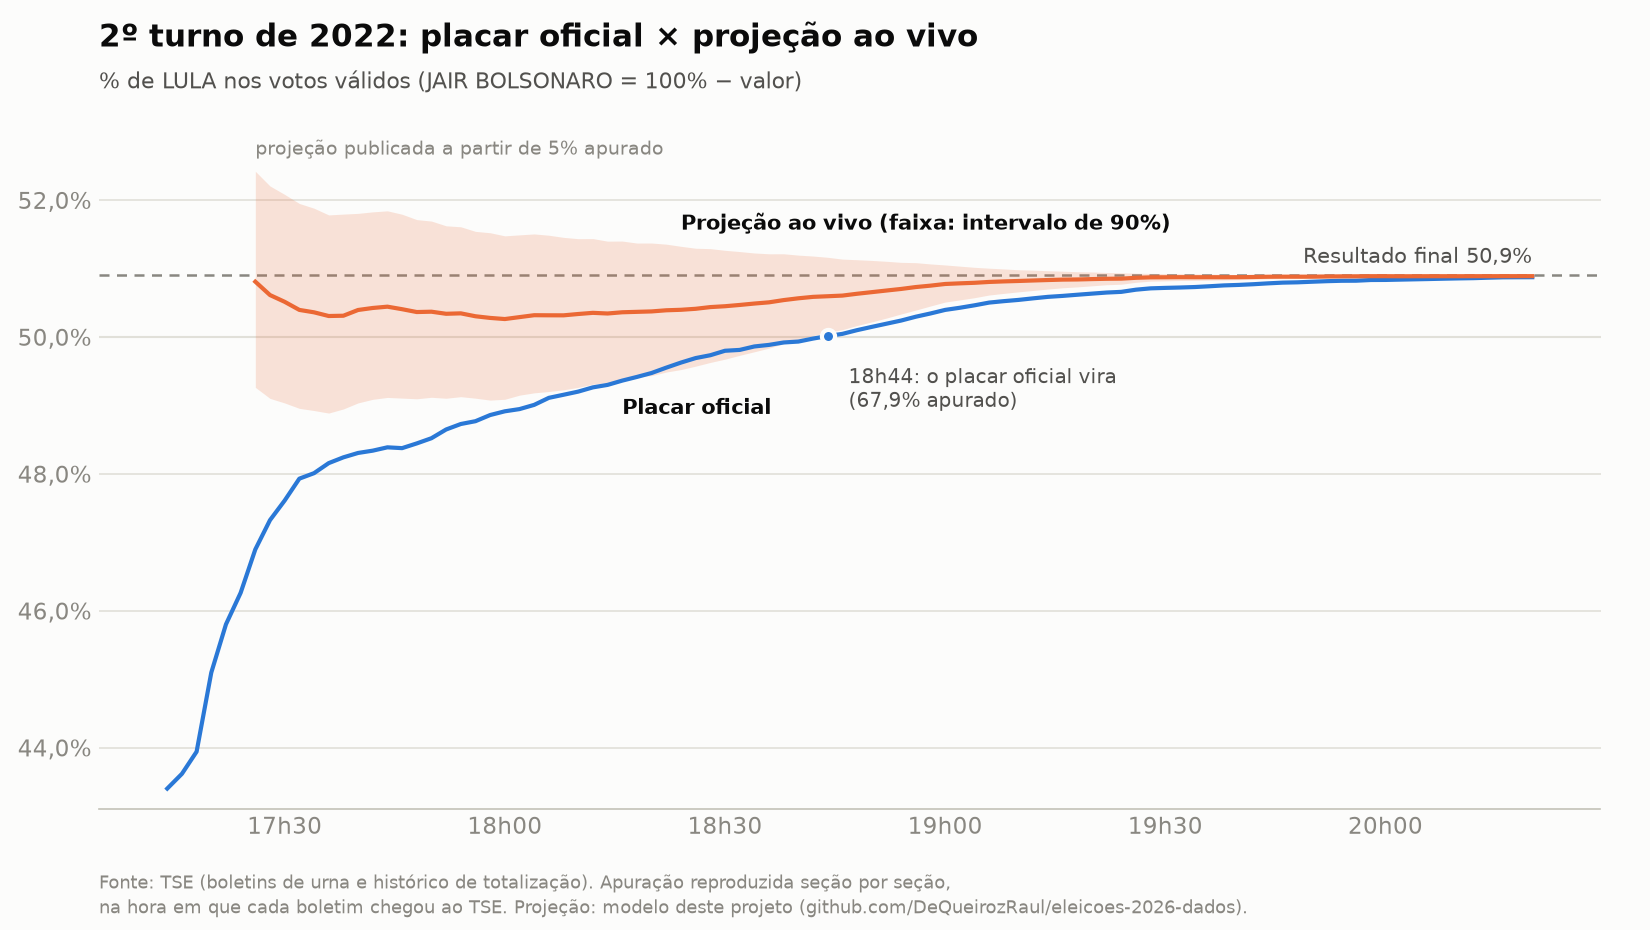
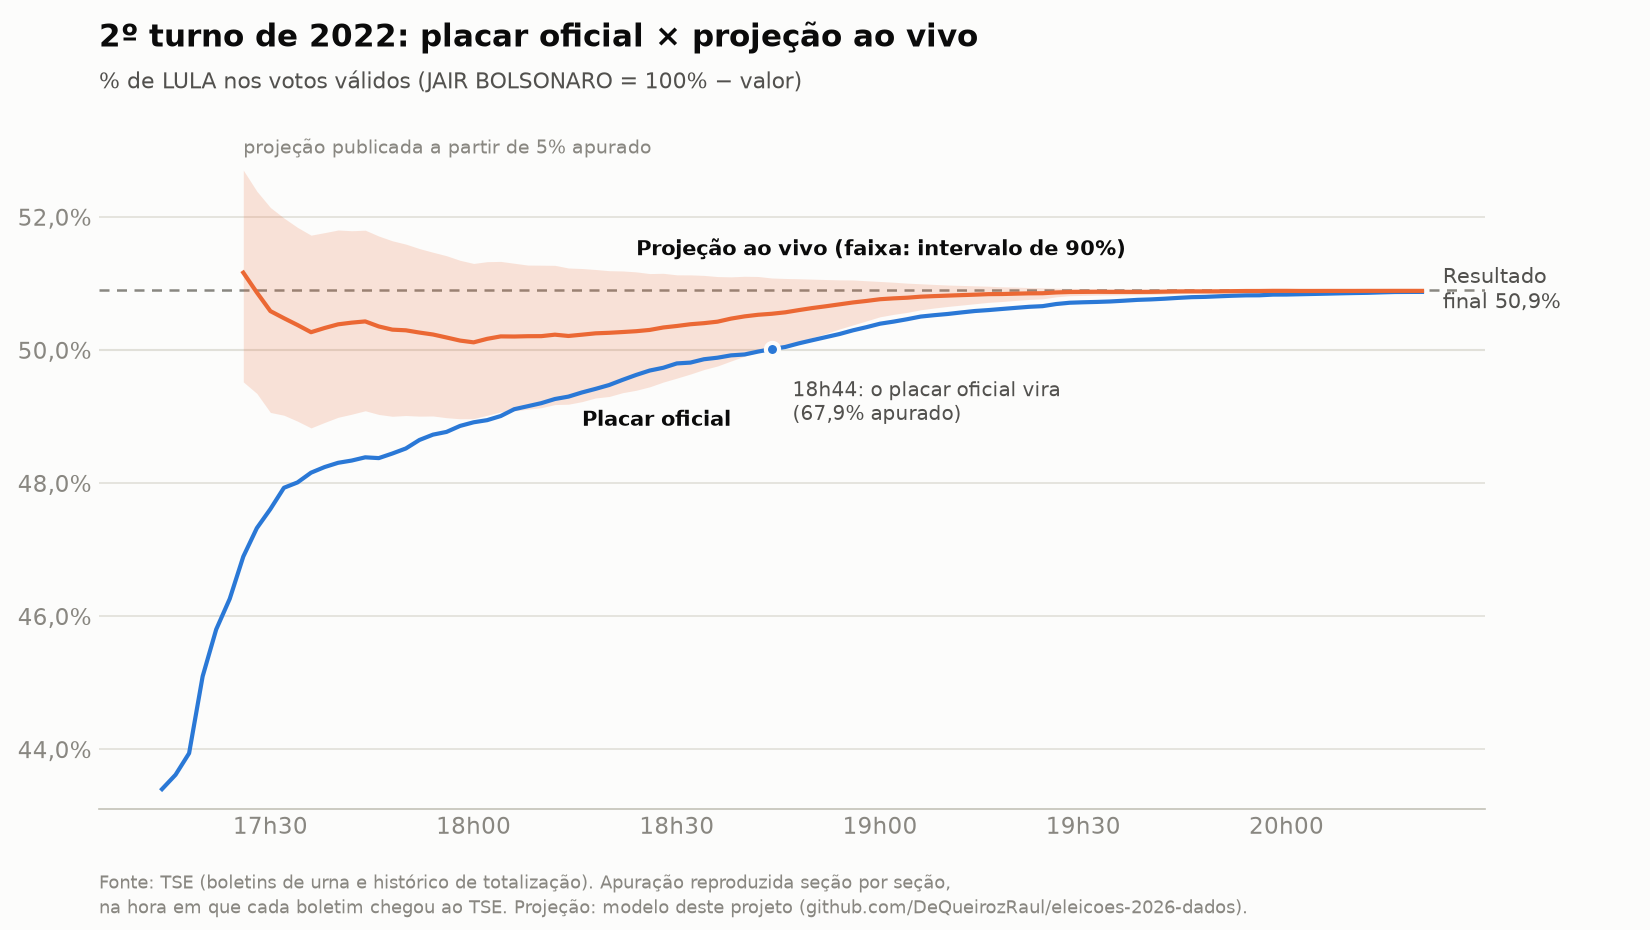
Previsão ao vivo validada nas duas apurações de 2022
- Teste independente no 1º turno de 2022 (placar LULA × JAIR BOLSONARO,
  previsão de antes = mapa do 2º turno de 2018). A primeira versão falhou:
  viés de 2 pontos por horas, porque em relação a 2018 LULA foi muito melhor
  nas cidades grandes, que apuram por último.
- O modelo ao vivo agora aprende durante a noite uma inclinação do erro por
  log(eleitores) do município (faixa larga a priori). Com isso o intervalo de
  90% conteve o final em 100% dos momentos no 1º turno e em 93% no 2º, e a
  projeção ficou do lado do vencedor desde 5% apurado nas duas noites.
- Download dos boletins em partes paralelas (com volta para o download
  simples se o servidor recusar).
- Gráficos das duas noites e metodologia atualizada, com a ressalva de que os
  testes de 2022 já ajudaram a desenhar o modelo; o teste independente será
  a noite de 25/10/2026.

Claude-Session: https://claude.ai/code/session_01YZ8Mxwq97kEgGU7PHEBHqv

diff --git a/eleicoes/ao_vivo.py b/eleicoes/ao_vivo.py
@@ -5,9 +5,10 @@ A cada atualização, o modelo:
 
 1. compara, em cada município com votos já apurados, o resultado parcial com a
    previsão feita antes da eleição (o "resíduo", na escala logit);
-2. estima o quanto a previsão está errando no país e em cada UF (modelo
-   normal hierárquico: resíduo = erro nacional + erro da UF + erro do município),
-   o que permite corrigir também os municípios que ainda não apuraram nada;
+2. estima o quanto a previsão está errando no país, em cada UF e conforme o
+   tamanho do município (modelo normal hierárquico: resíduo = erro nacional +
+   inclinação × log(eleitores) + erro da UF + erro do município), o que permite
+   corrigir também os municípios que ainda não apuraram nada;
 3. projeta os votos que faltam em cada município e soma ao que já foi apurado,
    admitindo que o que falta pode ser sistematicamente diferente do que chegou;
 4. repete com milhares de sorteios dos erros para obter intervalo e probabilidade.
@@ -40,6 +41,10 @@ class Parametros:
     sigma_mun: float = 0.138      # variação do erro entre municípios
     c_tamanho: float = 11.3       # ruído extra de municípios pequenos (÷ votos válidos)
     sigma_parcial: float = 0.20   # o que já foi apurado num município difere do que falta
+    # O erro pode depender do tamanho do município (cidades grandes apuram por
+    # último e às vezes votam diferente do previsto). Faixa larga a priori: o
+    # modelo aprende a inclinação durante a apuração.
+    sigma_tamanho: float = 0.20   # por unidade de log(eleitores)
     # O que ainda falta apurar pode diferir de forma sistemática do que já chegou
     # (regiões e seções que apuram mais tarde votam diferente). Esse erro não
     # diminui com mais dados apurados, só com menos votos faltando.
@@ -61,25 +66,17 @@ class Projecao:
         return self.pct_secoes >= MINIMO_APURADO
 
 
-def _posterior_erros(r, w_var, uf_idx, n_uf, p: Parametros):
-    """Média e covariância a posteriori de (erro nacional, erros das UFs)
-    no modelo r_i = mu + u_uf + e_i, e_i ~ N(0, w_var_i)."""
-    k = 1 + n_uf
-    precisao = np.zeros((k, k))
-    precisao[0, 0] = 1 / p.tau_nacional ** 2
-    precisao[np.arange(1, k), np.arange(1, k)] = 1 / p.sigma_uf ** 2
-    vetor = np.zeros(k)
+def _posterior_erros(r, w_var, X, precisao_prior):
+    """Média e covariância a posteriori dos efeitos no modelo r = X·efeitos + e,
+    e ~ N(0, w_var), com prior normal de média zero e precisão `precisao_prior`."""
+    precisao = np.diag(precisao_prior).astype(float)
+    vetor = np.zeros(len(precisao_prior))
     if len(r):
         inv = 1 / w_var
-        precisao[0, 0] += inv.sum()
-        por_uf = np.bincount(uf_idx, weights=inv, minlength=n_uf)
-        precisao[0, 1:] += por_uf
-        precisao[1:, 0] += por_uf
-        precisao[np.arange(1, k), np.arange(1, k)] += por_uf
-        vetor[0] = (inv * r).sum()
-        vetor[1:] = np.bincount(uf_idx, weights=inv * r, minlength=n_uf)
+        precisao += X.T @ (X * inv[:, None])
+        vetor = X.T @ (inv * r)
     cov = np.linalg.inv(precisao)
-    return cov @ vetor, cov
+    return cov @ vetor, (cov + cov.T) / 2
 
 
 def projetar(estado: pd.DataFrame, p: Parametros = Parametros(), cenarios: int = 2000,
@@ -96,14 +93,21 @@ def projetar(estado: pd.DataFrame, p: Parametros = Parametros(), cenarios: int =
     prior = estado["logit_prior"].to_numpy(float)
     fracao = np.divide(aptos_ap, aptos, out=np.ones_like(aptos), where=aptos > 0)
 
+    # efeitos: [erro nacional, inclinação por tamanho, erro de cada UF]
+    tamanho = np.log(np.maximum(aptos, 1))
+    tamanho = tamanho - np.average(tamanho, weights=np.maximum(aptos, 1))
+    X = np.column_stack([np.ones(len(estado)), tamanho, np.eye(n_uf)[uf_idx]])
+    precisao_prior = np.concatenate([[1 / p.tau_nacional ** 2, 1 / p.sigma_tamanho ** 2],
+                                     np.full(n_uf, 1 / p.sigma_uf ** 2)])
+
     # 1. resíduos dos municípios com votos apurados
     tem = validos > 0
     r = logit((a[tem] + 0.5) / (validos[tem] + 1)) - prior[tem]
     var_mun = p.sigma_mun ** 2 + p.c_tamanho / np.maximum(validos[tem], 1)
     var_obs = var_mun + p.sigma_parcial ** 2 * (1 - fracao[tem])
 
-    # 2. erro nacional e por UF
-    media, cov = _posterior_erros(r, var_obs, uf_idx[tem], n_uf, p)
+    # 2. erro nacional, por tamanho e por UF
+    media, cov = _posterior_erros(r, var_obs, X[tem], precisao_prior)
 
     # 3. votos que faltam em cada município
     taxa_obs = np.divide(validos, aptos_ap, out=np.zeros_like(validos), where=aptos_ap > 0)
@@ -111,8 +115,8 @@ def projetar(estado: pd.DataFrame, p: Parametros = Parametros(), cenarios: int =
     restante = (aptos - aptos_ap) * taxa
 
     # 4. sorteios
-    erros = rng.multivariate_normal(media, cov, size=cenarios)          # cenários x (1 + UFs)
-    base = prior[None, :] + erros[:, [0]] + erros[:, 1:][:, uf_idx]
+    erros = rng.multivariate_normal(media, cov, size=cenarios)          # cenários x efeitos
+    base = prior[None, :] + erros @ X.T
     # erro próprio do município: o que já apurou informa sobre o que falta
     var_e = p.sigma_mun ** 2 + p.c_tamanho / np.maximum(aptos * taxa, 1)
     rho = np.zeros(len(estado))

diff --git a/scripts/baixar_boletins_2022.py b/scripts/baixar_boletins_2022.py
@@ -14,8 +14,10 @@ from __future__ import annotations
 import argparse
 import shutil
 import sys
+import time
 import tempfile
 import zipfile
+from concurrent.futures import ThreadPoolExecutor
 from pathlib import Path
 
 import duckdb
@@ -39,13 +41,41 @@ def urls(turno: int) -> dict[str, str]:
     return saida
 
 
-def baixar_uf(url: str, destino: Path, sessao: requests.Session) -> None:
+def baixar_em_partes(url: str, destino: Path, partes: int = 3, bloco: int = 32 * 1024 * 1024) -> None:
+    """Baixa o arquivo em pedaços paralelos (HTTP Range), mais rápido para os zips
+    grandes. Se o servidor recusar os pedidos paralelos, baixa de uma vez só."""
+    tamanho = int(requests.head(url, timeout=60).headers["Content-Length"])
+    with open(destino, "wb") as f:
+        f.truncate(tamanho)
+
+    def pedaco(inicio: int) -> None:
+        fim = min(inicio + bloco, tamanho) - 1
+        for tentativa in range(4):
+            try:
+                r = requests.get(url, headers={"Range": f"bytes={inicio}-{fim}"}, timeout=300)
+                r.raise_for_status()
+                with open(destino, "r+b") as f:
+                    f.seek(inicio)
+                    f.write(r.content)
+                return
+            except requests.RequestException:
+                if tentativa == 3:
+                    raise
+                time.sleep(2 ** (tentativa + 1))
+
+    try:
+        with ThreadPoolExecutor(max_workers=partes) as executor:
+            list(executor.map(pedaco, range(0, tamanho, bloco)))
+    except requests.RequestException:
+        with requests.get(url, stream=True, timeout=600) as resposta, open(destino, "wb") as f:
+            resposta.raise_for_status()
+            shutil.copyfileobj(resposta.raw, f, length=4 * 1024 * 1024)
+
+
+def baixar_uf(url: str, destino: Path) -> None:
     with tempfile.TemporaryDirectory() as tmp:
         zip_tmp = Path(tmp) / "bu.zip"
-        with sessao.get(url, stream=True, timeout=600) as resposta:
-            resposta.raise_for_status()
-            with open(zip_tmp, "wb") as f:
-                shutil.copyfileobj(resposta.raw, f, length=4 * 1024 * 1024)
+        baixar_em_partes(url, zip_tmp)
         with zipfile.ZipFile(zip_tmp) as zf:
             membro = next(n for n in zf.namelist() if n.lower().endswith(".csv"))
             csv_tmp = Path(zf.extract(membro, tmp))
@@ -67,12 +97,11 @@ def main() -> None:
 
     pasta = RAIZ / "dados" / "brutos" / f"bweb_2022_{args.turno}t"
     pasta.mkdir(parents=True, exist_ok=True)
-    sessao = requests.Session()
     for uf, url in sorted(urls(args.turno).items()):
         destino = pasta / f"{uf}.parquet"
         if destino.exists():
             continue
-        baixar_uf(url, destino, sessao)
+        baixar_uf(url, destino)
         print(f"{uf}: {destino.stat().st_size / 1e6:.1f} MB", flush=True)
 
 

diff --git a/scripts/grafico_apuracao_2022.py b/scripts/grafico_apuracao_2022.py
@@ -63,8 +63,8 @@ def grafico(turno: int) -> Path | None:
 
     # rótulos diretos
     fim = r.iloc[-1]
-    ax.annotate("Resultado final " + pct(final), (r["momento"].iloc[-1], final), xytext=(-110, 6),
-                textcoords="offset points", color=TINTA_2, fontsize=10)
+    ax.annotate("Resultado\nfinal " + pct(final), (r["momento"].iloc[-1], final), xytext=(10, 0),
+                textcoords="offset points", color=TINTA_2, fontsize=10, va="center", annotation_clip=False)
     meio = r.iloc[len(r) // 3]
     meio_proj = proj.iloc[len(proj) // 3]
     ax.annotate("Placar oficial", (meio["momento"], meio["pct_a_apurado"]), xytext=(0, -16),
@@ -74,7 +74,8 @@ def grafico(turno: int) -> Path | None:
 
     # quando a liderança muda no placar e na projeção
     lado_final = final > 0.5
-    virada_placar = r[(r["pct_a_apurado"] > 0.5) == lado_final]
+    do_lado_final = ((r["pct_a_apurado"] > 0.5) == lado_final)[::-1].cummin()[::-1]  # daí em diante não muda mais
+    virada_placar = r[do_lado_final]
     if len(virada_placar) and len(virada_placar) < len(r):
         v = virada_placar.iloc[0]
         ax.scatter([v["momento"]], [v["pct_a_apurado"]], s=40, color=PLACAR, edgecolor=SUPERFICIE, lw=2, zorder=6)
@@ -100,7 +101,7 @@ def grafico(turno: int) -> Path | None:
     fig.text(0.06, 0.018, "Fonte: TSE (boletins de urna e histórico de totalização). Apuração reproduzida seção por seção,\n"
              "na hora em que cada boletim chegou ao TSE. Projeção: modelo deste projeto (github.com/DeQueirozRaul/eleicoes-2026-dados).",
              fontsize=8.5, color=MUDO, linespacing=1.4)
-    fig.subplots_adjust(left=0.06, right=0.97, top=0.86, bottom=0.13)
+    fig.subplots_adjust(left=0.06, right=0.9, top=0.86, bottom=0.13)
 
     destino = RAIZ / "docs" / "img" / f"apuracao_2022_{turno}t.png"
     destino.parent.mkdir(parents=True, exist_ok=True)

diff --git a/scripts/reproduzir_apuracao_2022.py b/scripts/reproduzir_apuracao_2022.py
@@ -1,5 +1,6 @@
-"""Reproduz a apuração do 2º turno de 2022 seção por seção e confere com o
-histórico oficial de totalização do TSE.
+"""Monta a tabela secoes_2022 (os dois turnos que já tiverem sido baixados) e
+confere a apuração do 2º turno reproduzida seção por seção com o histórico
+oficial de totalização do TSE.
 
 Cada seção entra na contagem no momento em que o boletim de urna chegou ao TSE
 (DT_BU_RECEBIDO). Se a curva reproduzida bater com o histórico oficial, essa

diff --git a/docs/previsao.md b/docs/previsao.md
@@ -264,18 +264,93 @@ ainda falta chegar:
    porcentagem final projetada com intervalo e a probabilidade de cada
    finalista, atualizadas a cada minuto.
 
-### Teste reproduzindo a apuração de 2022
+### Teste reproduzindo as apurações de 2022
+
+Código: [`eleicoes/ao_vivo.py`](../eleicoes/ao_vivo.py) e
+[`scripts/testar_ao_vivo_2022.py`](../scripts/testar_ao_vivo_2022.py).
 
 Os boletins de urna de 2022 trazem, para cada seção, os votos e a hora em que
-o boletim chegou ao TSE (`DT_BU_RECEBIDO`). Com isso dá para reproduzir a
-noite do 2º turno de 2022 minuto a minuto:
+o boletim chegou ao TSE (`DT_BU_RECEBIDO`). Reproduzindo a apuração nessa
+ordem, a curva bate com o histórico oficial de totalização do 2º turno:
+diferença média de 0,4 ponto no % de seções apuradas e de 0,07 ponto no % de
+LULA. Então dá para rodar a previsão ao vivo "como se fosse aquela noite", a
+cada 2 minutos, nos dois turnos.
 
-- conferir que a curva reproduzida bate com o histórico oficial de totalização;
-- rodar o modelo ao vivo como se fosse aquela noite;
-- medir com quantos % das seções apuradas a projeção ficou a menos de 0,5 ponto
-  do resultado final, e se o intervalo de incerteza conteve o resultado real.
+**2º turno de 2022.** A previsão de antes da eleição vem do modelo da Parte 1
+treinado só com 2002 a 2018, sem saber nada de 2022 além do 1º turno.
 
-Só publicamos a previsão ao vivo de 2026 se ela passar nesse teste.
+![Placar oficial e projeção ao vivo na noite do 2º turno de 2022](img/apuracao_2022_2t.png)
+
+**1º turno de 2022.** Aqui o alvo é o placar entre LULA e JAIR BOLSONARO. A
+previsão de antes é só o mapa do 2º turno de 2018 (lado do PT × outro lado),
+com incerteza nacional grande, porque esse mapa não diz nada sobre o nível de
+2022. É um teste mais difícil: o modelo tem de aprender quase tudo durante a
+noite.
+
+![Placar oficial e projeção ao vivo na noite do 1º turno de 2022](img/apuracao_2022_1t.png)
+
+Erro em relação ao resultado final (pontos percentuais):
+
+| Apurado | 2º turno: placar oficial | 2º turno: projeção | 1º turno: placar oficial | 1º turno: projeção |
+|---|---|---|---|---|
+| 5% | −4,6 | +0,5 | −6,5 | −0,8 |
+| 10% | −2,9 | −0,5 | −5,8 | −0,7 |
+| 25% | −2,1 | −0,7 | −5,2 | −0,8 |
+| 50% | −1,2 | −0,6 | −3,8 | −0,4 |
+| 75% | −0,7 | −0,2 | −2,3 | −0,1 |
+
+- **Lado certo desde o início:** depois de 5% apurado, a projeção mostrou LULA à
+  frente o tempo todo nos dois turnos. O placar oficial só virou às 18h44 no
+  2º turno (68% apurado) e às 20h00 no 1º (67%).
+- **Intervalo honesto:** o resultado final ficou dentro do intervalo de 90% em
+  93% dos momentos no 2º turno e em 100% no 1º. A largura média do intervalo
+  foi de ~3 pontos com 5–10% apurado, ~2 pontos com 25–50% e ~1,2 ponto com
+  50–75%.
+- **Chance acima de 90%:** de forma estável, a partir de 18h40 no 2º turno (64%
+  apurado), uma disputa decidida por 1,8 ponto, e desde a primeira publicação
+  (5,5% apurado) no 1º turno, decidido por 5,7 pontos.
+- **Sobra um viés pequeno:** a projeção ficou de 0,5 a 0,8 ponto abaixo do final
+  durante boa parte das duas noites. As seções que chegam primeiro votaram um
+  pouco mais em JAIR BOLSONARO do que as últimas, mesmo descontados UF e
+  tamanho. O intervalo cobre isso.
+
+### O que mudou no modelo por causa desses testes
+
+1. **O que falta apurar pode ser diferente do que já chegou.** A primeira
+   versão supunha que não, e no 2º turno o intervalo continha o final em só 8%
+   dos momentos. Entrou um desvio comum aos votos que faltam (0,04 no país e
+   0,05 por UF, na escala logit), com tamanho escolhido pela diferença entre a
+   primeira e a segunda metade das seções nas capitais.
+2. **Só publicar a partir de 5% apurado.** Antes disso os primeiros boletins vêm
+   de poucas regiões e a projeção oscila (chegou a 54% com 1% apurado no 2º
+   turno).
+3. **O erro pode depender do tamanho do município.** Com os ajustes 1 e 2, o
+   teste no 1º turno ainda falhou: viés de 2 pontos por horas e intervalo
+   contendo o final em só 5% dos momentos. A causa: em relação ao mapa de 2018,
+   LULA foi muito melhor nas cidades grandes do que nas pequenas (diferença de
+   cerca de 0,3 na escala logit), e as pequenas apuram primeiro. Entrou uma
+   inclinação por log(eleitores), com faixa larga a priori (0,2), que o modelo
+   aprende durante a noite. No 2º turno ela quase não mudou nada.
+
+**Ressalva:** o ajuste 3 foi feito depois de ver o resultado do 1º turno. Então
+os dois testes de 2022 já ajudaram a desenhar o modelo, e o teste realmente
+independente será a noite de 25/10/2026. Os parâmetros não foram ajustados
+para acertar nenhum dos dois testes: o 1 e o 3 vieram dos diagnósticos e o 2 é
+uma regra simples.
+
+## Na noite de 25/10
+
+```bash
+# terminal 1: coleta a cada minuto
+python scripts/coletar_ao_vivo.py --eleicao 6258 --cargo 1 --intervalo 60
+# terminal 2: projeção a cada minuto (aparece a partir de 5% apurado)
+python scripts/previsao_ao_vivo.py --eleicao 6258 --intervalo 60
+```
+
+Em 07/10 os arquivos do 2º turno (eleição 6258) ainda não estavam publicados
+no site de resultados do TSE; o coletor espera e avisa "nenhum dado publicado
+ainda". Vale rodar de novo na semana da eleição para confirmar que os caminhos
+não mudaram.
 
 ## O que será publicado
 

diff --git a/README.md b/README.md
@@ -5,6 +5,13 @@ históricas, um olhar para o Brasil inteiro e um recorte específico do
 **Distrito Federal**. Tudo é feito a partir de dados oficiais e abertos (TSE e
 IBGE), com código aberto e reprodutível.
 
+![Placar oficial e projeção ao vivo na noite do 2º turno de 2022](docs/img/apuracao_2022_2t.png)
+
+*Teste da previsão ao vivo reproduzindo a apuração do 2º turno de 2022 seção por
+seção: a projeção ficou do lado do vencedor desde 5% apurado, mais de uma hora
+antes de o placar oficial virar (o mesmo aconteceu no 1º turno).
+[Como funciona](docs/previsao.md#parte-2-ao-vivo-durante-a-apuração).*
+
 ## ⚖ Compromisso de neutralidade
 
 Este é um projeto **apartidário**. Ele não apoia, critica nem faz campanha
@@ -78,8 +85,15 @@ python scripts/prever_2t.py
 # 5. de onde vieram os eleitores dos eliminados e cenários de transferência
 python scripts/cenarios_transferencia.py
 
-# na noite do 2º turno: uma varredura por minuto até o fim da apuração
+# 6. teste da previsão ao vivo reproduzindo as apurações de 2022
+python scripts/baixar_boletins_2022.py --turno 2    # e --turno 1 (~1,2 GB de download)
+python scripts/reproduzir_apuracao_2022.py
+python scripts/testar_ao_vivo_2022.py --turno 2     # e --turno 1
+python scripts/grafico_apuracao_2022.py
+
+# na noite do 2º turno (25/10), em dois terminais:
 python scripts/coletar_ao_vivo.py --eleicao 6258 --cargo 1 --intervalo 60
+python scripts/previsao_ao_vivo.py --eleicao 6258 --intervalo 60
 
 pytest
 ```
@@ -94,6 +108,7 @@ O banco `dados/eleicoes.duckdb` tem as tabelas:
 | `finalistas` | os dois primeiros colocados de cada eleição |
 | `transicao_turnos` | base do modelo: 1º e 2º turno lado a lado, por município |
 | `composicao_eleitorado` | eleitorado de cada município por opção (candidato, branco/nulo, abstenção) |
+| `secoes_2022` | 2022, por seção: votos dos finalistas e hora em que o boletim chegou ao TSE |
 
 ```sql
 -- % de cada candidato no 1º turno de 2026, por região
@@ -116,7 +131,8 @@ order by m.regiao, pct desc;
       ([metodologia e resultados](docs/previsao.md))
 - [x] Cenários de transferência dos votos dos eliminados, com a origem dos
       eleitores estimada por inferência ecológica ([resultados](docs/previsao.md#cenários-para-onde-vão-os-eleitores-dos-eliminados))
-- [ ] Previsão ao vivo durante a apuração, testada reproduzindo a apuração de 2022
+- [x] Previsão ao vivo durante a apuração, testada reproduzindo as duas
+      apurações de 2022 seção por seção ([resultados](docs/previsao.md#parte-2-ao-vivo-durante-a-apuração))
 - [ ] Análises: resultados, perfil dos candidatos, patrimônio, eleitorado,
       dinheiro de campanha
 - [ ] Recorte do Distrito Federal
